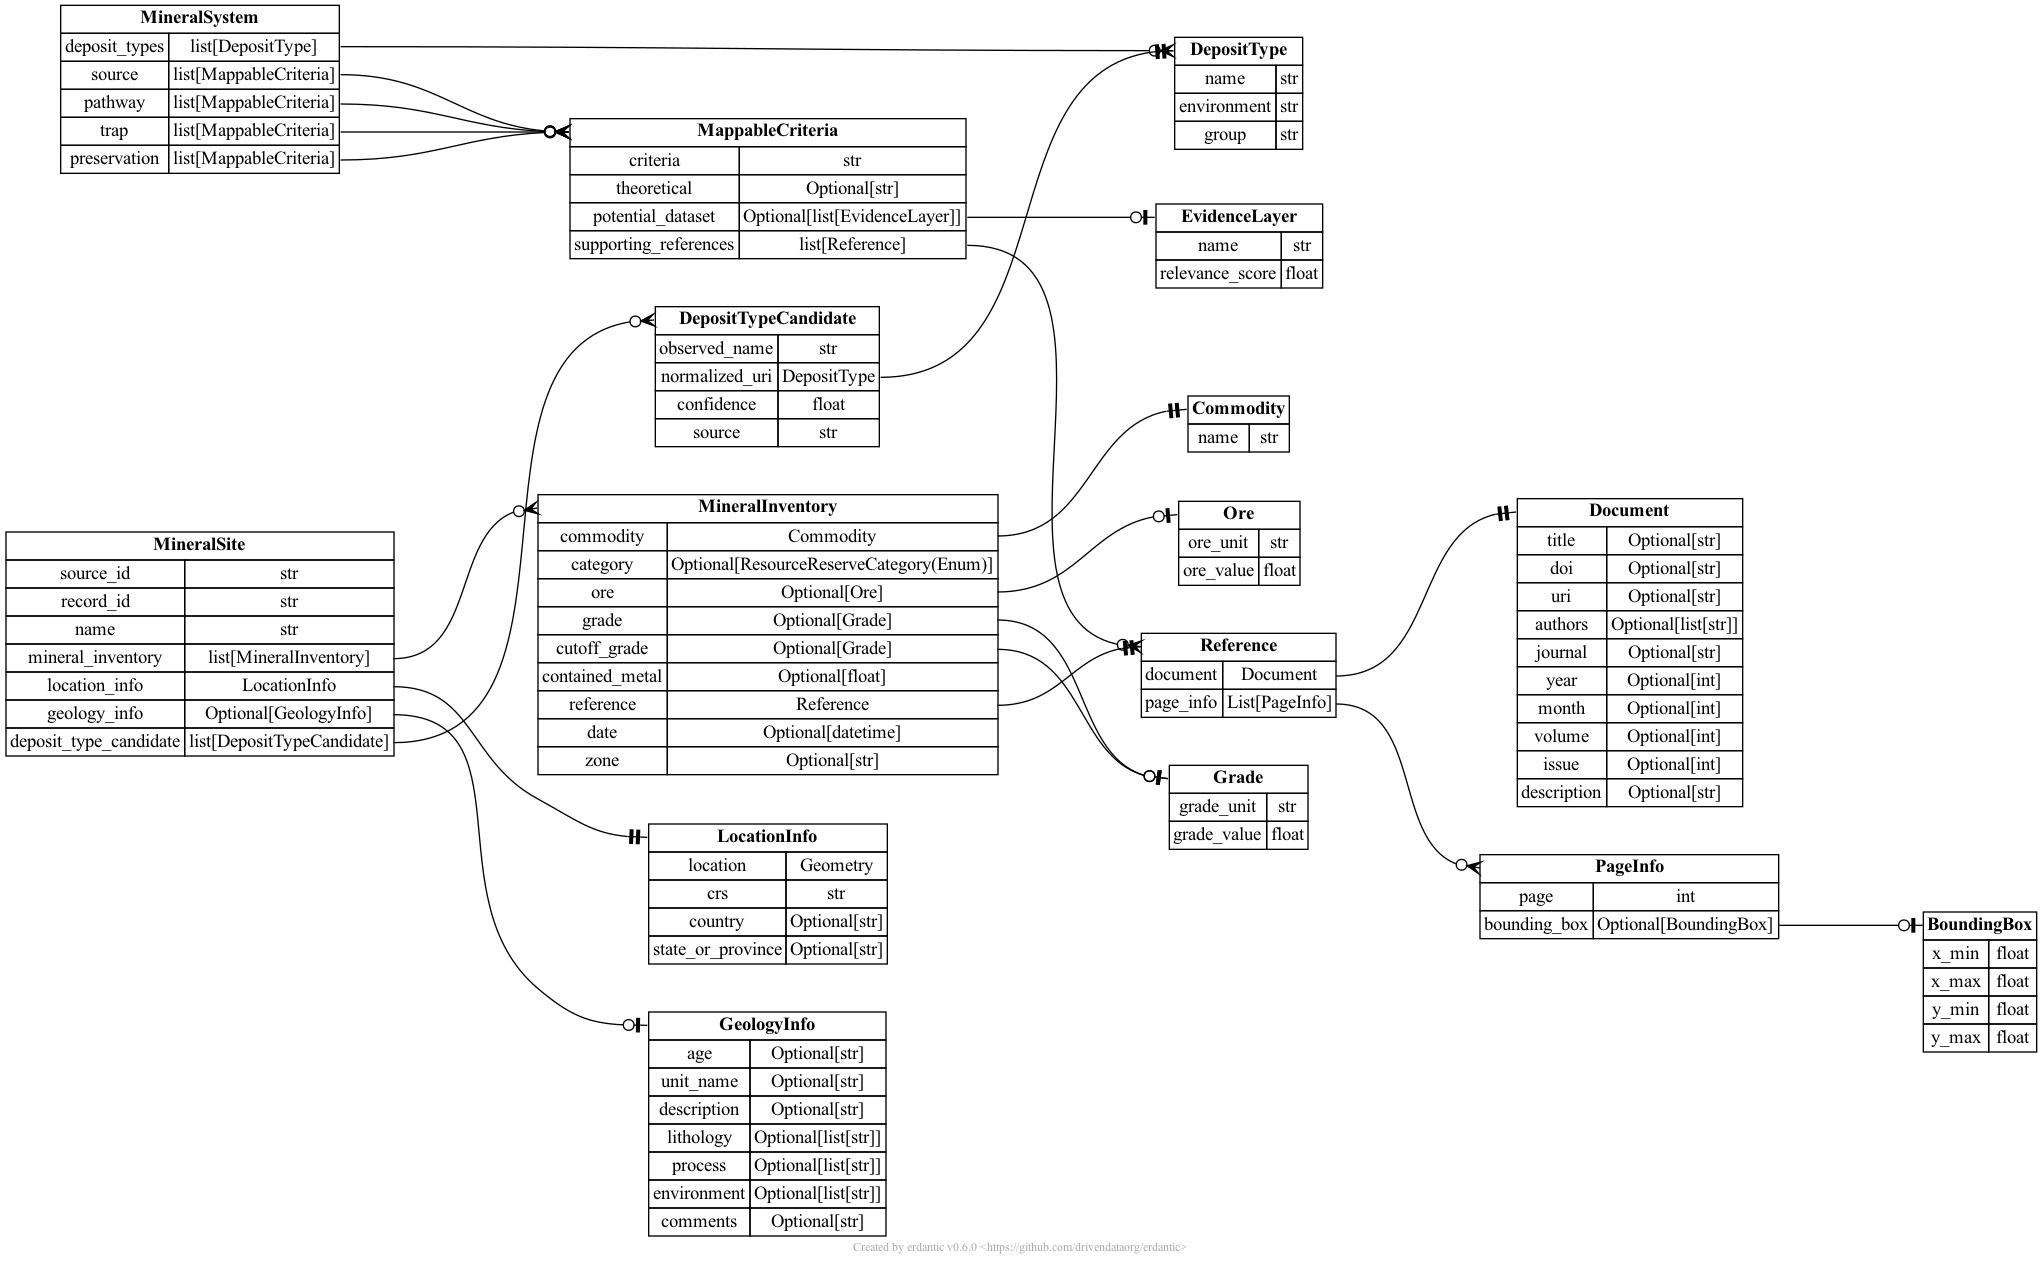
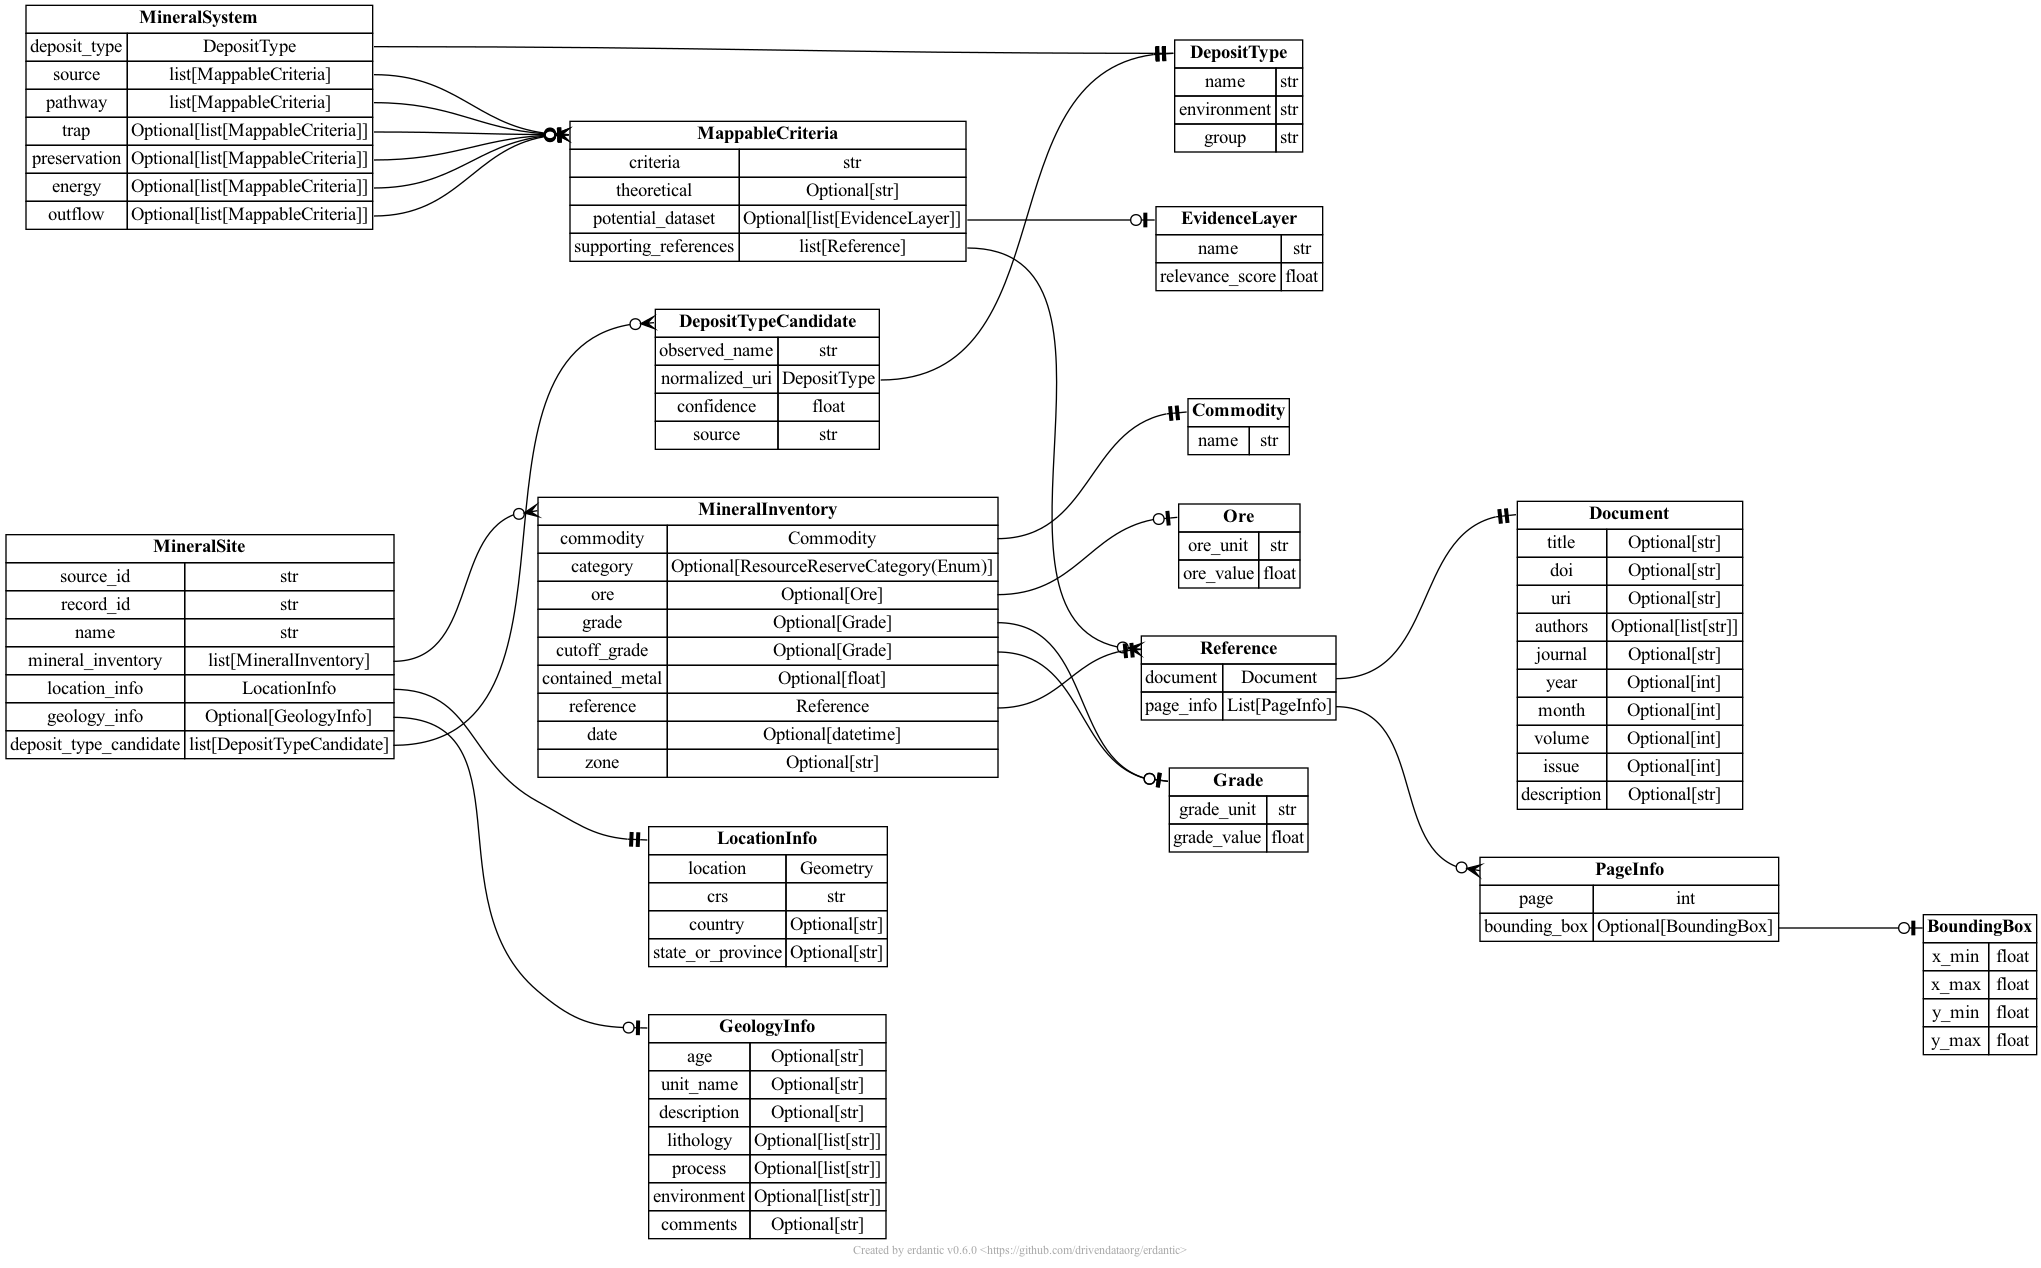
update ta2 schema again (SRI)

diff --git a/ta2/output.py b/ta2/output.py
@@ -81,11 +81,13 @@ class MappableCriteria(BaseModel):
     supporting_references: list[Reference]
 
 class MineralSystem(BaseModel):
-    deposit_types: list[DepositType]
+    deposit_type: DepositType
     source: list[MappableCriteria]
     pathway: list[MappableCriteria]
-    trap: list[MappableCriteria]
-    preservation: list[MappableCriteria]
+    trap: Optional[list[MappableCriteria]]
+    preservation: Optional[list[MappableCriteria]]
+    energy: Optional[list[MappableCriteria]]
+    outflow: Optional[list[MappableCriteria]]
 
 class Commodity(BaseModel):
     name: str

diff --git a/ta2/output.md b/ta2/output.md
@@ -220,16 +220,31 @@
 
 ### Properties
 
-- **`deposit_types`** *(array)*
-  - **Items**: Refer to *[DepositType](#DepositType)*.
+- **`deposit_type`**: Refer to *[DepositType](#DepositType)*.
 - **`source`** *(array)*
   - **Items**: Refer to *[MappableCriteria](#MappableCriteria)*.
 - **`pathway`** *(array)*
   - **Items**: Refer to *[MappableCriteria](#MappableCriteria)*.
-- **`trap`** *(array)*
-  - **Items**: Refer to *[MappableCriteria](#MappableCriteria)*.
-- **`preservation`** *(array)*
-  - **Items**: Refer to *[MappableCriteria](#MappableCriteria)*.
+- **`trap`**
+  - **Any of**
+    - *array*
+      - **Items**: Refer to *[MappableCriteria](#MappableCriteria)*.
+    - *null*
+- **`preservation`**
+  - **Any of**
+    - *array*
+      - **Items**: Refer to *[MappableCriteria](#MappableCriteria)*.
+    - *null*
+- **`energy`**
+  - **Any of**
+    - *array*
+      - **Items**: Refer to *[MappableCriteria](#MappableCriteria)*.
+    - *null*
+- **`outflow`**
+  - **Any of**
+    - *array*
+      - **Items**: Refer to *[MappableCriteria](#MappableCriteria)*.
+    - *null*
 
 ## Ore
 
